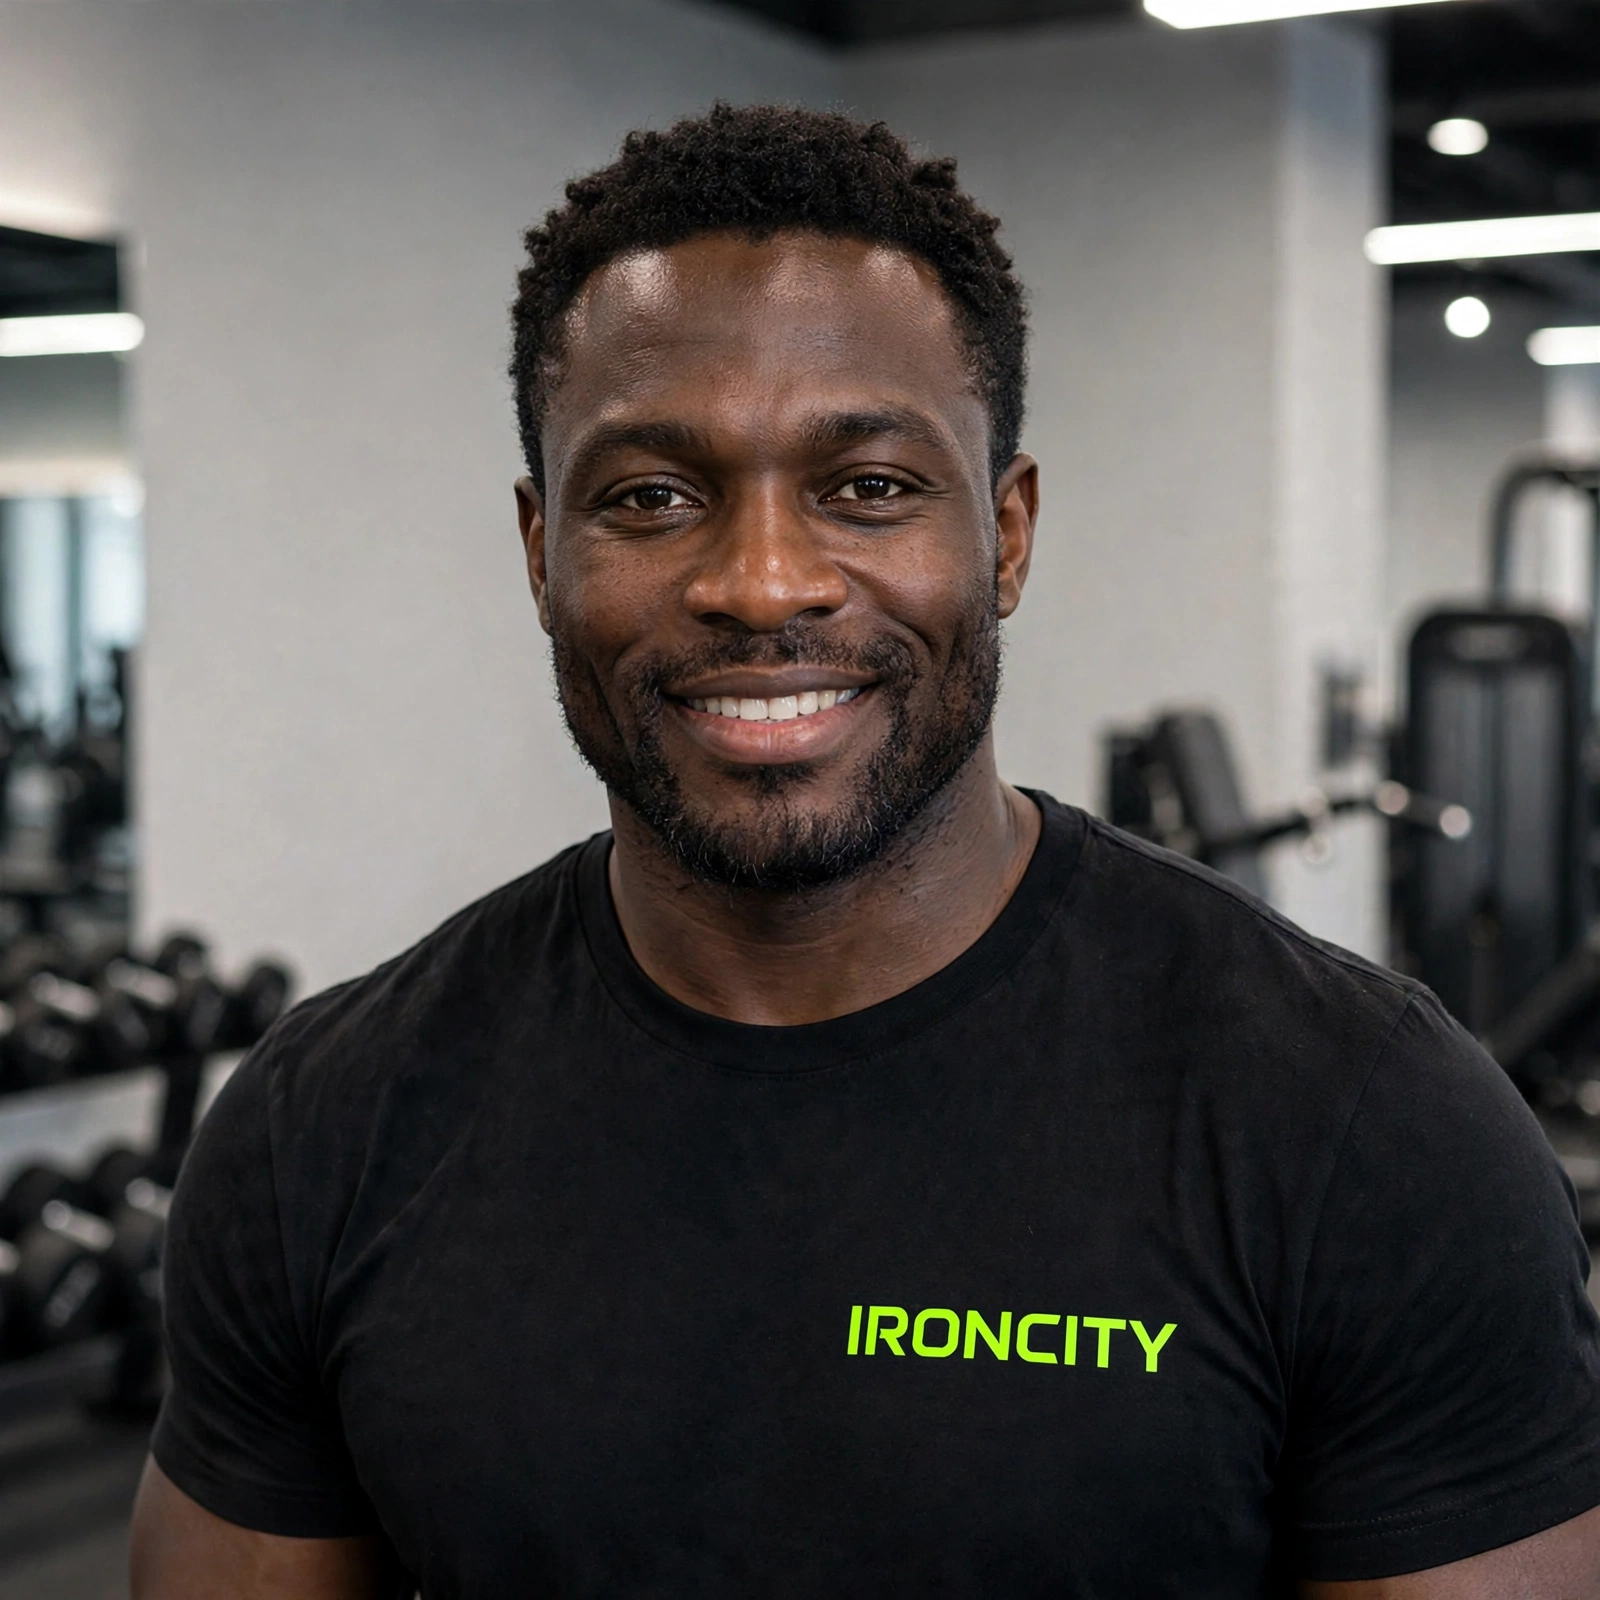
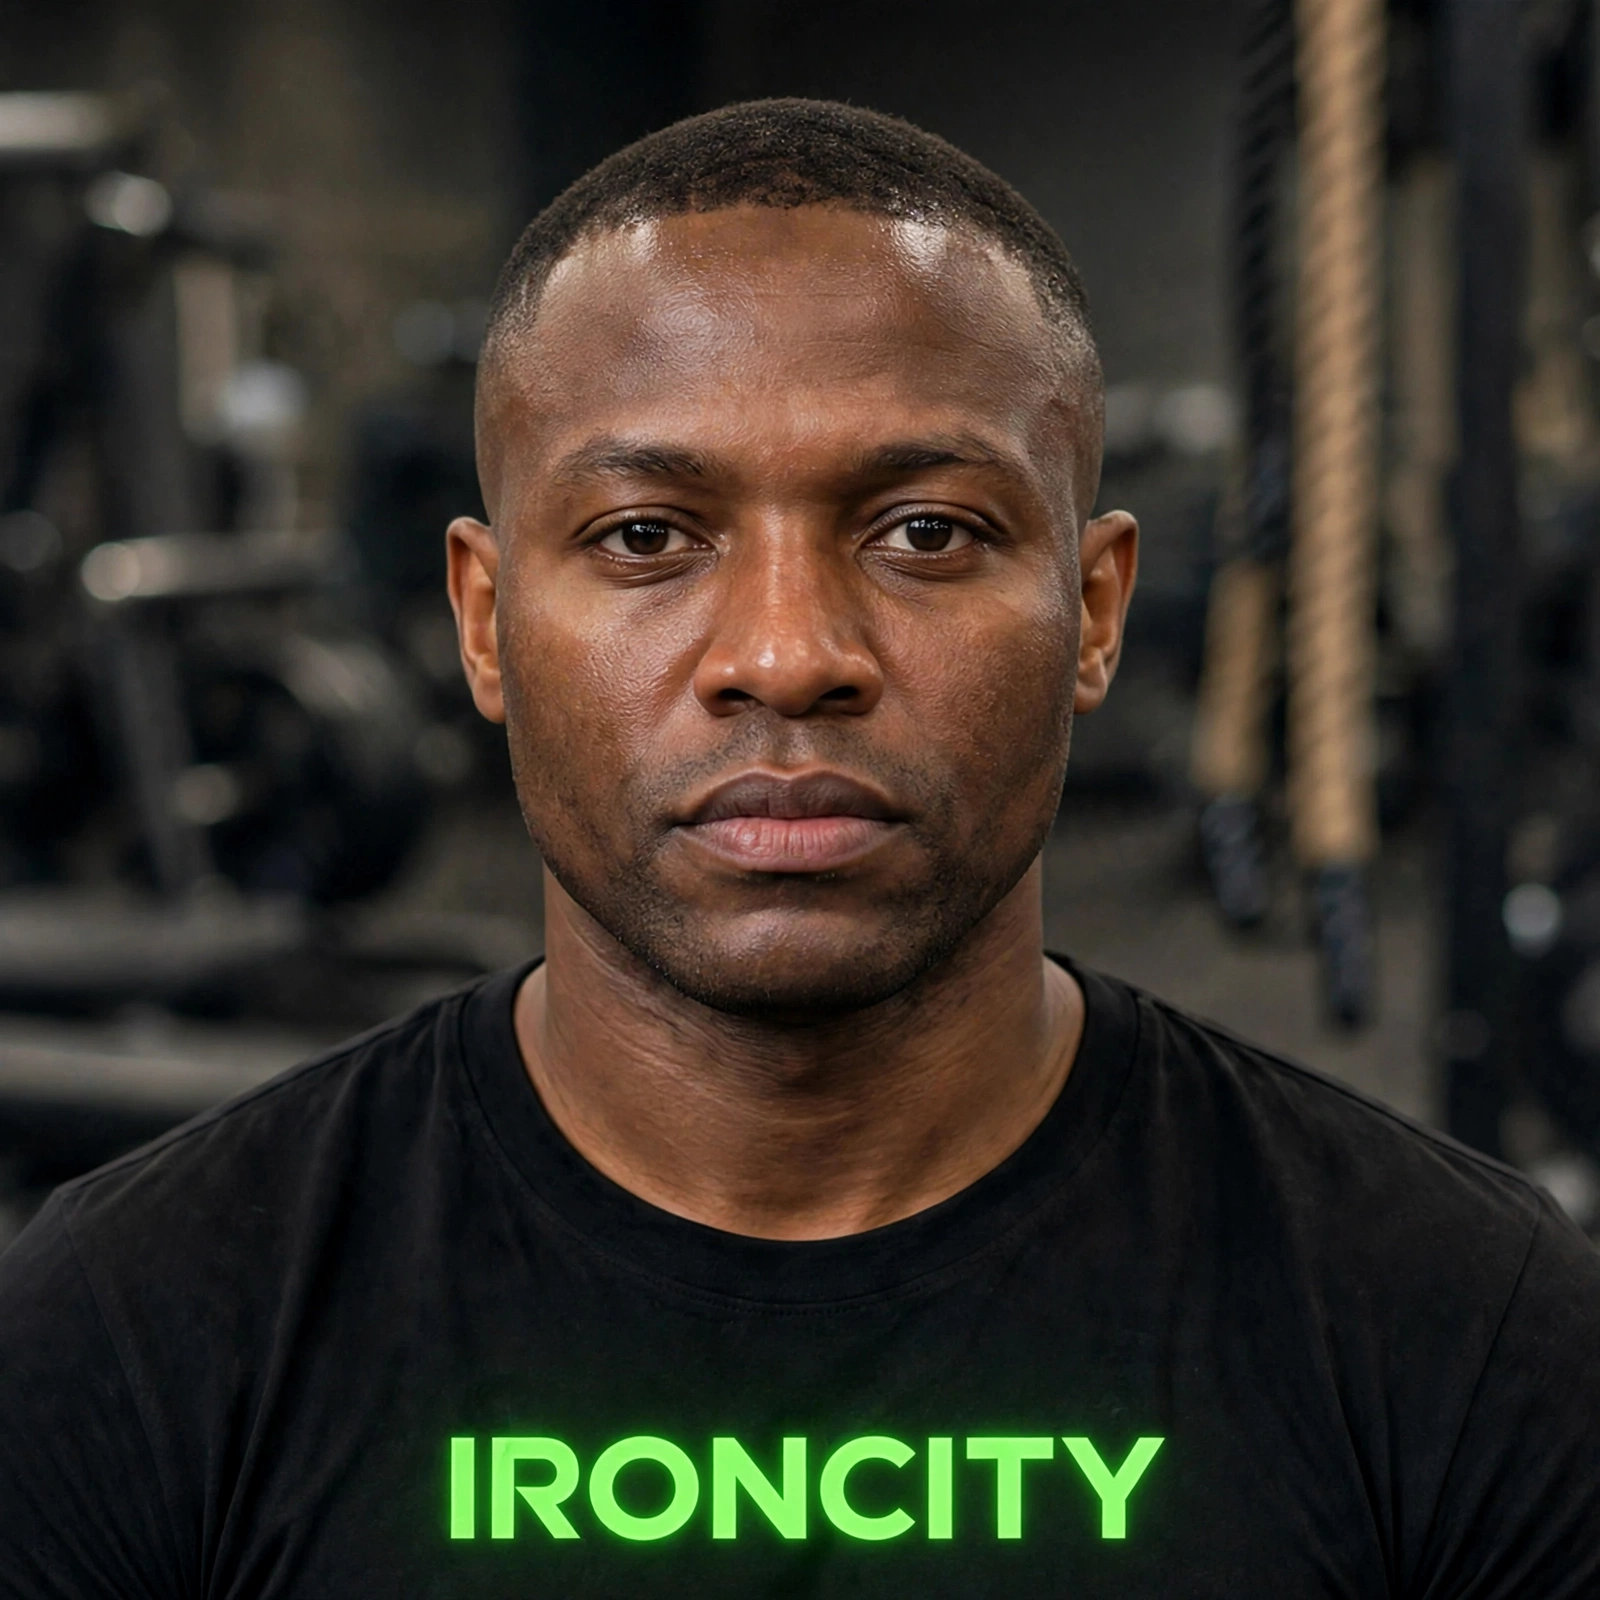
html

diff --git a/styles.css b/styles.css
@@ -250,132 +250,72 @@ input:focus,select:focus,textarea:focus{border-color:var(--neon)} label{font-siz
 /* Buttons */
 .btn-join-about{width:100%; margin-top:16px; padding:14px; border-radius:12px; background:#a6ff00; color:#000; font-weight:900; border:none; font-size:14px}
 .map-btn{background:#a6ff00 !important; border:none !important; color:#000 !important; padding:14px 28px !important; border-radius:12px !important; font-weight:900 !important; font-size:13px !important; text-decoration:none !important; display:inline-flex !important; align-items:center !important; gap:6px !important; margin-top:10px !important; box-shadow:0 4px 15px rgba(166,255,0,0.2) !important}
-/* === IRONCITY ABOUT PAGE - FINAL FIX === */
-
-/* Force hero to fill */
-#about .about-hero-full{
+/* === ABOUT PAGE - PHONE FIX === */
+.about-hero-full {
   width: 100% !important;
-  height: 450px !important;
-  overflow:hidden !important;
-  position:relative !important;
+  height: auto !important;
+  aspect-ratio: 16/11 !important;
+  overflow: hidden !important;
   border-radius: 20px !important;
-  margin-bottom: 20px !important;
 }
-#about .about-hero-full img{
-  width:100% !important;
-  height:100% !important;
-  object-fit:cover !important;
-  object-position: center top !important;
-  display:block !important;
-}
-
-/* Make STORY + TIME side by side on desktop */
-#about .card.time-card, 
-#about .card.story-card {
+.about-hero-full img {
   width: 100% !important;
-}
-
-@media (min-width: 768px) {
-  #about {
-    display: grid !important;
-    grid-template-columns: 1fr 1fr;
-    gap: 20px;
-  }
-  #about h2.neon,
-  #about .about-hero-full,
-  #about .hero-img,
-  #about .stats-grid,
-  #about .card.dark,
-  #about .card:not(.time-card):not(.story-card) {
-    grid-column: 1 / -1 !important;
-  }
-}
-
-/* PHONE FIX - prevent face cut */
-@media (max-width: 768px) {
-  .about-mini-gallery.three img {
-    height: 380px !important;
-    object-position: top center !important;
-  }
-  .about-mini-gallery img {
-    height: 280px !important;
-  }
-}
-/* Mini galleries - force fill, no middle black */
-.about-mini-gallery{
-  display:grid !important;
-  grid-template-columns: 1fr 1fr !important;
-  gap:14px !important;
-}
-/* FIX COACH CUTTING */
-.about-mini-gallery.three {
-  grid-template-columns: 1fr 1fr 1fr !important;
-  gap: 14px !important;
-}
-
-.about-mini-gallery.three img {
-  width: 100% !important;
-  height: 340px !important; /* increase from 260px to 340px */
+  height: 100% !important;
   object-fit: cover !important;
-  object-position: top center !important; /* show face, not chest */
-  border-radius: 14px !important;
-  background: #111 !important;
+  object-position: center top !important; /* show face, not chest */
+  display: block !important;
 }
 
-/* Give the card itself more top space */
-.card:has(.about-mini-gallery.three) {
-  padding-top: 24px !important;
-}
-
-/* Optional - make it 2 rows on phone so faces bigger */
-@media (max-width: 600px) {
-  .about-mini-gallery.three {
-    grid-template-columns: 1fr !important;
-  }
-  .about-mini-gallery.three img {
-    height: 420px !important;
-  }
-}
-
-/* FIX MEMBERS GALLERY - make it full width, not middle */
-.story-card .about-mini-gallery {
+.about-mini-gallery {
+    width: 100% !important;
   display: grid !important;
   grid-template-columns: 1fr 1fr !important;
-  gap: 14px !important;
-  width: 100% !important;
-  margin-top: 18px !important;
+  gap: 12px !important;
 }
-
-.story-card .about-mini-gallery img {
+.about-mini-gallery img {
   width: 100% !important;
-  height: 260px !important; /* taller so faces show */
+  height: auto !important;
+  aspect-ratio: 1/1 !important; /* square - face no go cut */
   object-fit: cover !important;
   object-position: top center !important;
   border-radius: 12px !important;
 }
 
-/* If your card get max-width wey dey force middle, remove am */
-.story-card {
+.about-mini-gallery.three {
+  grid-template-columns: 1fr 1fr 1fr !important;
+}
+.about-mini-gallery.three img {
+ height: auto !important;
+  object-position: top center !important;
+}
+
+.hero-img {
+  width: 100% !important;
+  height: auto !important;
+  aspect-ratio: 16/9 !important;
+  overflow: hidden !important;
+}
+.hero-img img {
+  width: 100% !important;
+  height: 100% !important;
+  object-fit: cover !important;
+  object-position: center !important;
+}
+
+/* Phone make it smaller height */
+@media (max-width: 600px) {
+  .about-hero-full {
+    aspect-ratio: 4/3 !important;
+  }
+  .about-mini-gallery.three {
+    grid-template-columns: 1fr !important;
+  }
+  .about-mini-gallery.three img {
+    aspect-ratio: 4/3 !important;
+  }
+}
+
+.card.story-card {
   width: 100% !important;
   max-width: 100% !important;
-}
-
-/* Group image */
-.hero-img{
-  width:100% !important;
-  height:350px !important;
-  overflow:hidden !important;
-  border-radius:16px !important;
-}
-.hero-img img{
-  width:100% !important;
-  height:100% !important;
-  object-fit:cover !important;
-}
-
-/* Diff grid */
-.diff-grid{
-  display:grid !important;
-  grid-template-columns: 1fr 1fr !important;
-  gap:16px !important;
 }
